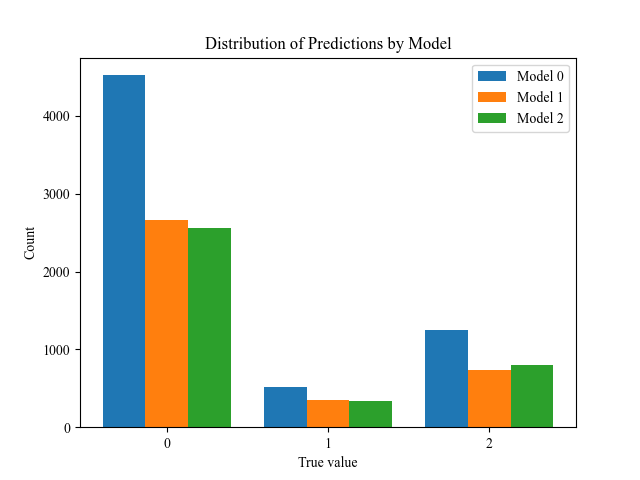
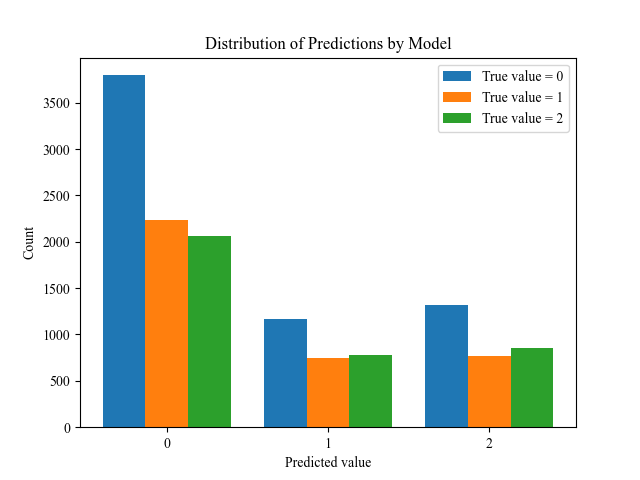
init

diff --git a/src/results/phi_nce_plot.py b/src/results/phi_nce_plot.py
@@ -10,6 +10,7 @@ import seaborn as sns
 import scipy
 import time
 from src.parameterEstimation.NCE import NCE
+from scipy.stats import t
 
 
 def get_alpha_beta(theta, K):
@@ -24,7 +25,7 @@ def get_alpha_beta(theta, K):
     n = nodes
     idx = torch.triu_indices(n,n,1)
     alpha = [np.zeros((n,n)) for i in range(K)]
-    beta = alpha
+    beta = [np.zeros((n,n)) for i in range(K)]
     for component in np.arange(0,K):
         for j in np.arange(0,idx.shape[1]):
             alpha[component][idx[0,j],idx[1,j]] = theta[component][0][j]
@@ -83,6 +84,34 @@ def get_true_phi(phi, K):
                 P[component][row,col] = I1(np.sqrt(alpha[component][row,col]**2 + beta[component][row,col]**2)) / I0(np.sqrt(alpha[component][row,col]**2 + beta[component][row,col]**2))
     return P
 
+def correlation_matrix_to_p_values(correlation_matrix, n):
+    # Number of observations (sample size)
+    assert n > 2, "Sample size must be greater than 2 to calculate p-values."
+    
+    # Degrees of freedom
+    df = n - 2
+    
+    # Initialize the p-value matrix with the same shape as the correlation matrix
+    p_value_matrix = np.zeros_like(correlation_matrix)
+    
+    # Iterate through the matrix to compute p-values
+    for i in range(correlation_matrix.shape[0]):
+        for j in range(correlation_matrix.shape[1]):
+            if i == j:
+                p_value_matrix[i, j] = 0  # The p-value of the diagonal elements is 0
+            else:
+                r = correlation_matrix[i, j]
+                t_stat = r * np.sqrt(df / (1 - r**2))
+                p_value = 2 * (1 - t.cdf(np.abs(t_stat), df))  # Two-tailed p-value
+                p_value_matrix[i, j] = p_value
+                # if p_value < 0.005:
+                #     p_value_matrix[i, j] = 1
+                # elif p_value < 0.05:
+                #     p_value_matrix[i, j] = 0.5
+                # else:
+                #     p_value_matrix[i, j] = 0
+    
+    return p_value_matrix
 
 if __name__ == "__main__":
 
@@ -92,8 +121,8 @@ if __name__ == "__main__":
     N = 1000 # samples
     nodes = 3
     K = 3 # single model
-    nce_steps = 5000
-    lr = 0.1
+    nce_steps = 1000
+    lr = 0.05
 
     nce = NCE(
         nodes = nodes,
@@ -114,43 +143,49 @@ if __name__ == "__main__":
 
     Ps = get_phi_corr(theta, K)
 
-    min_val = 0
-    max_val = 1.5
+    # min_val = 0
+    # max_val = 1.5
+
+    print(*Ps, sep="\n")
+
+    stats = [correlation_matrix_to_p_values(p, 1000) for p in Ps]
+
+    print(*stats, sep="\n")
    
-    plt.rcParams['font.family'] = 'Times New Roman'
-    plt.figure(figsize=(16,4))
-    plt.subplot(1,3,1)
-    plot = sns.heatmap(Ps[0], vmin=min_val, vmax=max_val)
-    plt.title('Component 1')
+    # plt.rcParams['font.family'] = 'Times New Roman'
+    # plt.figure(figsize=(16,4))
+    # plt.subplot(1,3,1)
+    # plot = sns.heatmap(stats[0])#, vmin=min_val, vmax=max_val)
+    # plt.title('Component 1')
 
-    plt.subplot(1,3,2)
-    plot = sns.heatmap(Ps[1], vmin=min_val, vmax=max_val)
-    plt.title('Component 2')
+    # plt.subplot(1,3,2)
+    # plot = sns.heatmap(stats[1])#, vmin=min_val, vmax=max_val)
+    # plt.title('Component 2')
 
-    plt.subplot(1,3,3)
-    plot = sns.heatmap(Ps[2], vmin=min_val, vmax=max_val)
-    plt.title('Component 3')
+    # plt.subplot(1,3,3)
+    # plot = sns.heatmap(stats[2])#, vmin=min_val, vmax=max_val)
+    # plt.title('Component 3')
 
-    plt.savefig('src/plots/syn_data_phi_heatmap.png')
-    plt.show()
+    # plt.savefig('src/plots/syn_data_phi_heatmap.png')
+    # plt.show()
 
-    # Doing it for the true phi:
-    true_phis = get_true_phi(phi, K)
+    # # Doing it for the true phi:
+    # true_phis = get_true_phi(phi, K)
     
-    plt.rcParams['font.family'] = 'Times New Roman'
-    plt.figure(figsize=(16,4))
-    plt.subplot(1,3,1)
-    plot = sns.heatmap(true_phis[0], vmin=min_val, vmax=max_val)
-    plt.title('Component 1')
+    # plt.rcParams['font.family'] = 'Times New Roman'
+    # plt.figure(figsize=(16,4))
+    # plt.subplot(1,3,1)
+    # plot = sns.heatmap(true_phis[0])#, vmin=min_val, vmax=max_val)
+    # plt.title('Component 1')
 
-    plt.subplot(1,3,2)
-    plot = sns.heatmap(true_phis[1], vmin=min_val, vmax=max_val)
-    plt.title('Component 2')
+    # plt.subplot(1,3,2)
+    # plot = sns.heatmap(true_phis[1])#, vmin=min_val, vmax=max_val)
+    # plt.title('Component 2')
 
-    plt.subplot(1,3,3)
-    plot = sns.heatmap(true_phis[2], vmin = min_val, vmax = max_val)
-    plt.title('Component 3')
+    # plt.subplot(1,3,3)
+    # plot = sns.heatmap(true_phis[2])#, vmin = min_val, vmax = max_val)
+    # plt.title('Component 3')
 
-    plt.savefig('src/plots/true_phi.png')
-    plt.show()
+    # plt.savefig('src/plots/true_phi.png')
+    # plt.show()
     

diff --git a/src/results/real_tgmm_boxplot.py b/src/results/real_tgmm_boxplot.py
@@ -1,9 +1,10 @@
 import sys
 sys.path.insert(0, '.')
-from src.toolbox import load_sample_data, TorusGraph, NCE
+from src.toolbox import load_sample_data, TorusGraph, NCE, sample_syndata_torusgraph
 import torch
 import matplotlib.pyplot as plt
 import time
+import numpy as np
 
 
 if __name__ == "__main__":
@@ -14,21 +15,46 @@ if __name__ == "__main__":
     N = 1000 # samples
     nodes = 3
     K = 3 # single model
-    cv_runs = 2
-    nce_steps = 5000
-    lr = 0.1
+    cv_runs = 10
+    nce_steps = 1000
+    lr = 0.05
 
 
-    data, true_vals = load_sample_data()
-    data = torch.from_numpy(data).float()
+    # data, true_vals = load_sample_data()
+    # true_vals = torch.tensor(true_vals, dtype = torch.int64)
+    # data = torch.from_numpy(data).float()
+
+    X, datamodel = sample_syndata_torusgraph(
+        nodes = nodes,
+        samples = N,
+        nModels = K,
+        fitFCM = False,
+        fitPAD = True,
+        fitPAS = False,
+        return_datamodel = True
+    )
+
     accuracies = []
     for _ in range(cv_runs):
-        estimation_method = NCE(nodes = data.shape[1], K = K, lr = lr, steps = nce_steps, return_log_prop_data = True)
-        torus_graph = TorusGraph(nodes = data.shape[1], samples = data.shape[0], data = data, nModels = K, estimationMethod = estimation_method, true_vals = true_vals)
+        estimation_method = NCE(
+            nodes = nodes, 
+            K = K, 
+            lr = 0.1, 
+            return_log_prop_data = True)
+
+        torus_graph = TorusGraph(
+            data = X,
+            nodes = nodes, 
+            samples = N,  
+            nModels = K, 
+            estimationMethod = estimation_method, 
+            return_datamodel = True)
         accuracies.append(torus_graph.evaluate())
     print(f"Time taken = {time.time() - start_time}")
+    print(np.mean(accuracies))
+    print(np.std(accuracies))
     plt.rcParams['font.family'] = 'Times New Roman'
     plt.boxplot(accuracies, patch_artist=True)
     plt.title(f'Boxplot of acc on real data with learning rate = {lr} over {cv_runs} runs on Mixture model')
-    plt.savefig('src/plots/real_tgmm_boxplot.png')
+    plt.savefig('src/plots/tgmm_boxplot.png')
     plt.show()

diff --git a/src/toolbox/torus.py b/src/toolbox/torus.py
@@ -106,7 +106,7 @@ class TorusGraph():
         return calc_NMI(ohe_true_vals, normalized_log_probs)
 
     def visualize(self, title = "Distribution of Predictions by Model", ax = None, show = True, save_title = None):
-        adjusted_pred_labels = self.get_preds()
+        adjusted_pred_labels = self.get_preds(adjust = False)
         distributions = {}
         for k in range(self.info["nModels"]):
             preds_for_k_idx = np.where(adjusted_pred_labels == k)
@@ -121,13 +121,13 @@ class TorusGraph():
         bar_width = 0.8 / self.info["nModels"]
         for i in range(self.info["nModels"]):
             bars = [distributions[k][i] for k in x_values]
-            ax.bar([x + i * bar_width for x in range(len(x_values))], bars, bar_width, label=f"Model {i}")
+            ax.bar([x + i * bar_width for x in range(len(x_values))], bars, bar_width, label=f"True value = {i}")
 
         # Set x-axis labels
         ax.set_xticks([x + bar_width * (self.info["nModels"] - 1) / 2 for x in range(len(x_values))])
         ax.set_xticklabels(x_values)
         ax.set_title(title)
-        ax.set_xlabel("True value")
+        ax.set_xlabel("Predicted value")
         ax.set_ylabel("Count")
         ax.legend()
         if show:
@@ -135,15 +135,14 @@ class TorusGraph():
             plt.show()
         return ax
 
-    def get_preds(self):
+    def get_preds(self, adjust = True):
         if not self.estimationMethod.return_log_prop_data:
             raise NotImplementedError("You need to set return log prop data to True in your estimation method")
         if self.true_vals is None:
             raise NotImplementedError("You need to set true vals before being able to run eval")
         pred_labels = classify_points(self.estimationMethod, self.estimationMethod.log_prop_data, self.info["samples"]).detach().numpy()
-        print(pred_labels.shape, self.true_vals.shape)
         adjusted_pred_labels = adjust_pred_labels(pred_labels, self.info["nModels"], self.true_vals)
-        return adjusted_pred_labels
+        return adjusted_pred_labels if adjust else pred_labels
 
 
 

diff --git a/src/results/see_nce_loss.py b/src/results/see_nce_loss.py
@@ -8,12 +8,14 @@ import matplotlib.pyplot as plt
 if __name__ == "__main__":
     N = 1000 # samples
     nodes = 3
-    K = 1 # single model
+    K = 3 # single model
+    nce_steps = 1000
     lr = 0.05
 
     nce = NCE(
         nodes = nodes,
         K = K,
+        steps = nce_steps,
         lr = lr,
         return_log_prop_data = True
     )
@@ -27,7 +29,7 @@ if __name__ == "__main__":
 
     plt.rcParams['font.family'] = 'Times New Roman'
     plt.plot(nce.losses)
-    plt.title(f"NCE loss for lr = {lr} for a single torus graph on synthetic data")
+    plt.title(f"NCE loss for lr = {lr} for a mixture model on synthetic data")
     plt.savefig('src/plots/nce_loss_tg.png')
     plt.show()
 

diff --git a/src/results/real_preds_dist.py b/src/results/real_preds_dist.py
@@ -15,7 +15,7 @@ if __name__ == "__main__":
     nodes = 3
     K = 3 # single model
     cv_runs = 10
-    nce_steps = 5000
+    nce_steps = 1000
 
     data, true_vals = load_sample_data()
     data = torch.from_numpy(data).float()
@@ -23,7 +23,7 @@ if __name__ == "__main__":
     estimation_method = NCE(
         nodes = data.shape[1], 
         K = K, 
-        lr = 0.1, 
+        lr = 0.05, 
         steps = nce_steps, 
         return_log_prop_data = True)
 
